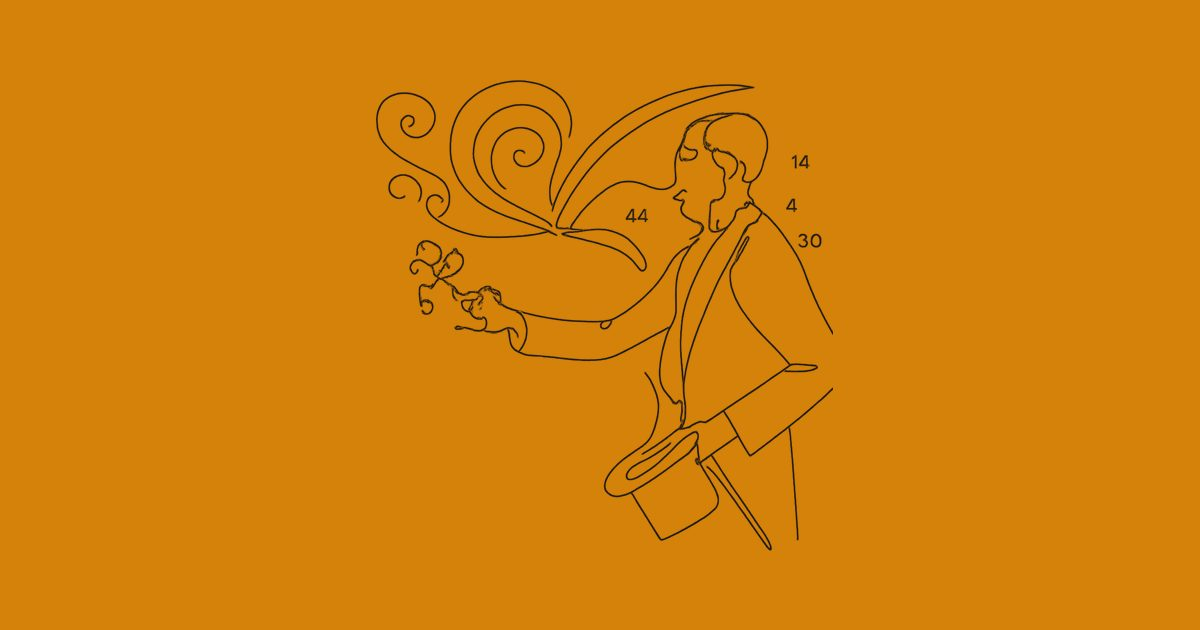
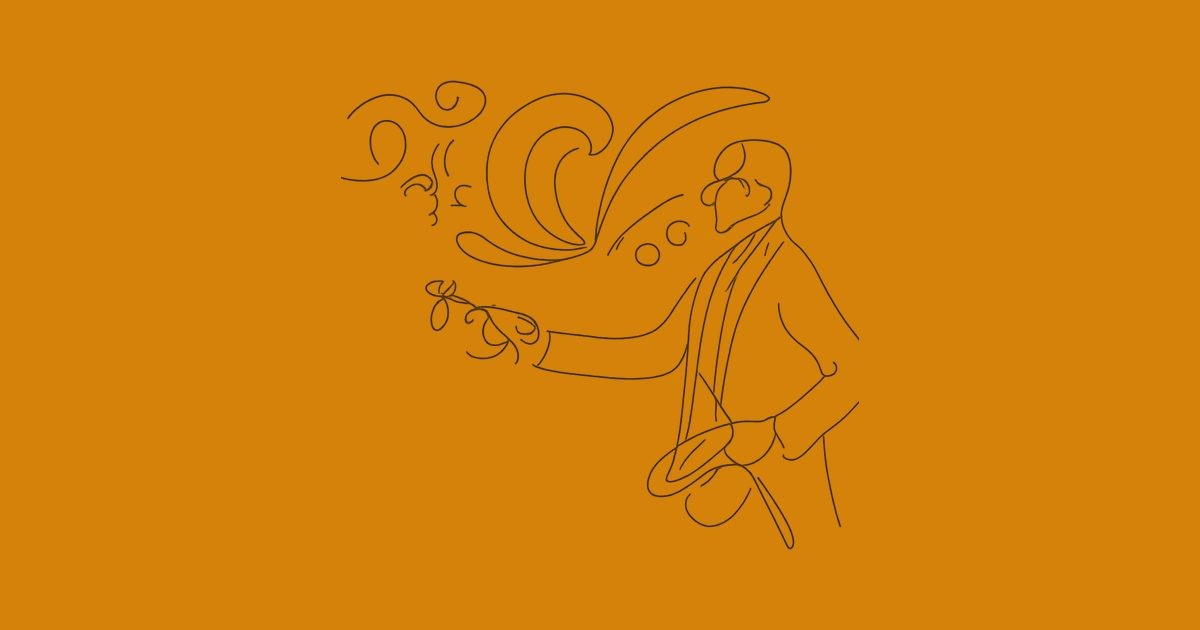
Opus 217 (Signac): new line drawing + thumb + share card (sw v388)

Changed region(s): [[0.2775, 0.1206, 0.7092, 0.8746]]

diff --git a/sw.js b/sw.js
@@ -12,7 +12,7 @@
  *      iOS will refuse to play a cached MP3 that doesn't honor Range.
  */
 
-const CACHE_VERSION = 'frank-v387';
+const CACHE_VERSION = 'frank-v388';
 // The audio cache is deliberately NOT tied to CACHE_VERSION. mp3s never change
 // content under one filename except when a take is re-recorded — so ordinary
 // deploys must not throw away ~340MB of cached audio on every phone. Bump
